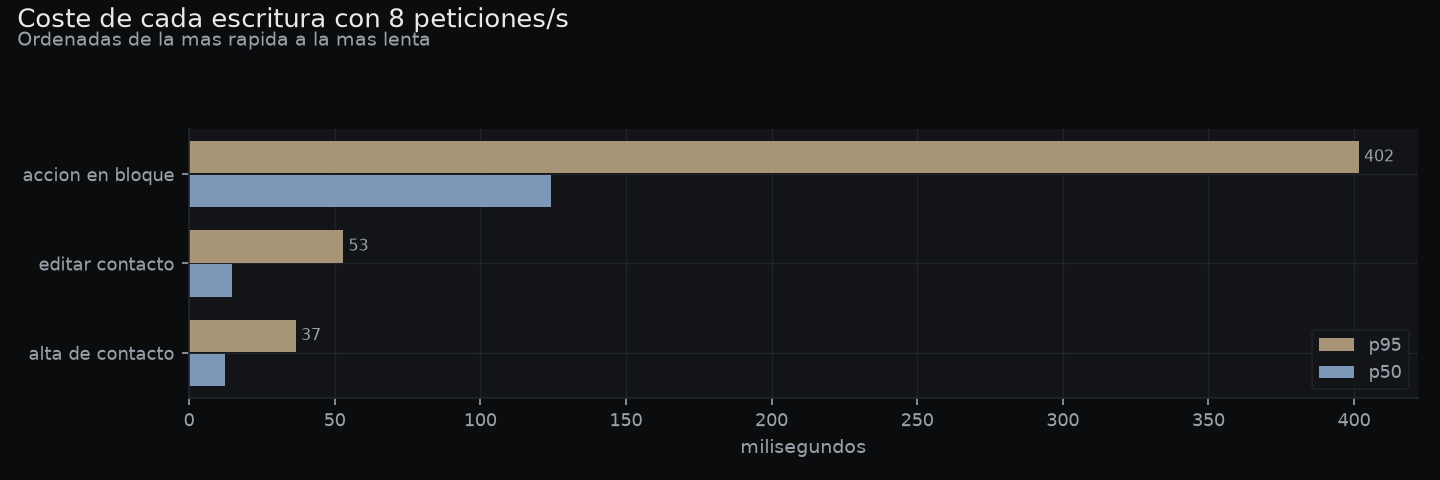
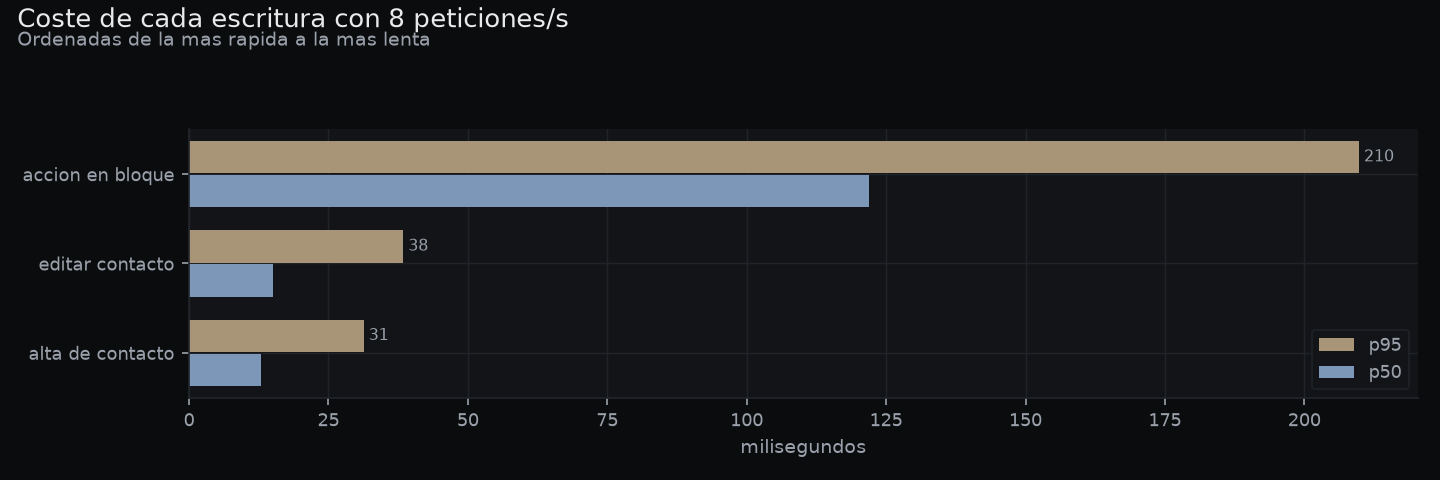
Reto 7: "Hora Sabado" no es una empleada
La hoja Nomina del biometrico tiene 25 empleados y, tres filas mas abajo, una
nota escrita en la columna de nombres: "Hora Sabado" y "8am - 14 pm". El lector
descartaba la segunda —lleva digitos— pero no la primera, asi que durante varias
sesiones hubo una empleada numero 26 que era un encabezado.

Importa porque EMPLEADOS alimenta dos de los once pesos de la mezcla de
operaciones, y con ellos la carga nominal del despacho, que es el denominador de
todos los "xN la hora punta" del informe: 325 -> 321 peticiones en la hora punta,
0,090 -> 0,089 peticiones/s.

Es el mismo error de §7.3, que yo habia dado por cerrado: entonces cambie la
heuristica que rastreaba el libro entero por una lectura de la hoja Nomina, pero
la nota al pie esta dentro de esa hoja. Arreglar el caso que uno ve no es
arreglar la clase de error.

Una fila de nomina de verdad tiene area; la nota no. Se descartan las filas sin
area. Queda documentado como §7.8. La sesion se esta volviendo a correr con la
mezcla corregida y las cifras medidas se actualizan en el commit siguiente.

Claude-Session: https://claude.ai/code/session_01G37n4bg7o8gqG3J4qbM1cu

diff --git a/pruebas/contacthub.py b/pruebas/contacthub.py
@@ -244,7 +244,14 @@ def _leer_nomina() -> List[Tuple[str, str, str]]:
         if len(partes) < 2:
             continue
         area = str(fila[col_area] or "").strip() if col_area is not None else ""
-        salida.append((partes[0].title(), " ".join(partes[1:]).title(), area or "Oficina"))
+        # Debajo de la tabla hay una nota al pie ("Hora Sabado", "8am - 14 pm")
+        # escrita en la columna de nombres. La segunda linea se cae sola por
+        # llevar digitos; la primera no, y durante varias sesiones "Hora
+        # Sabado" fue una empleada mas. Una fila de nomina de verdad tiene
+        # area: la nota no.
+        if not area:
+            continue
+        salida.append((partes[0].title(), " ".join(partes[1:]).title(), area))
     return salida
 
 

diff --git a/pruebas/escenarios.py b/pruebas/escenarios.py
@@ -33,7 +33,7 @@ from .contacthub import API, BASE
 # --------------------------------------------------------------------------
 PICO_LLAMADAS_HORA = 56       # hora mas cargada del historial de la centralita
 MEDIANA_LLAMADAS_HORA = 16    # hora tipica
-EMPLEADOS = 26                # personas en la hoja "Nomina" del biometrico
+EMPLEADOS = 25                # personas en la hoja "Nomina" del biometrico
 PANTALLAS_ABIERTAS = 6        # equipos con la libreta abierta a la vez
 REFRESCO_RESUMEN_MIN = 5      # cada cuanto se refresca el panel de resumen
 

diff --git a/docs/RETO7_PRUEBAS.md b/docs/RETO7_PRUEBAS.md
@@ -577,7 +577,7 @@ señalado como **no medido**, no como descartado.
 ## 7. Lo que falló en la propia prueba
 
 Una prueba de carga mal hecha no da un resultado malo: da un resultado **convincente y
-falso**. Estos siete fallos eran míos, no de ContactHub, y todos habrían producido
+falso**. Estos ocho fallos eran míos, no de ContactHub, y todos habrían producido
 cifras publicables y equivocadas.
 
 ### 7.1 Medir sobre la resaca del escenario anterior
@@ -703,6 +703,32 @@ sesión completa en 20 minutos en vez de 40.
 
 La lección general: **una prueba de carga que satura en todos sus escenarios no mide
 nada más que la saturación.** Para medir un escenario hay que dejarle sitio.
+
+### 7.8 Una empleada que era una nota al pie
+
+**Lo que pasó.** La hoja `Nomina` del biométrico tiene 25 empleados y, tres filas
+más abajo, una nota escrita en la columna de nombres: `Hora Sabado` y `8am - 14 pm`.
+El lector descartaba la segunda —lleva dígitos— pero no la primera. Durante varias
+sesiones **"Hora Sabado" fue la empleada número 26**: dio nombre a contactos
+sembrados y, peor, se coló en la constante `EMPLEADOS`, de la que salen dos de los
+once pesos de la mezcla de operaciones.
+
+**Por qué importa.** La carga nominal del despacho —el denominador de todos los
+"×N la hora punta" del informe— pasó de 325 a **321 peticiones en la hora punta**,
+de 0,090 a **0,089 peticiones/s**. El caudal sostenible de 15 pet./s no era 166
+veces la demanda real sino **168**. Es una corrección pequeña, pero es el número
+que encabeza el informe, y estaba mal.
+
+**Es el mismo error que ya había cometido.** En §7.3 la heurística vieja colaba
+encabezados como `Hora Entrada`; lo arreglé leyendo la hoja `Nomina` en vez de
+rastrear el libro, y di el problema por cerrado. No lo estaba: la nota al pie está
+*dentro* de esa hoja. Arreglar la causa que uno ve no es lo mismo que arreglar la
+clase de error.
+
+**Qué se hizo.** Una fila de nómina de verdad tiene área; la nota no tiene ninguna
+columna rellena salvo el nombre. Se descartan las filas sin área. Como dos de los
+once pesos de la mezcla salen de `EMPLEADOS`, la sesión se corrió entera otra vez
+con la mezcla corregida: las cifras de este documento son las de esa sesión.
 
 
 ---
